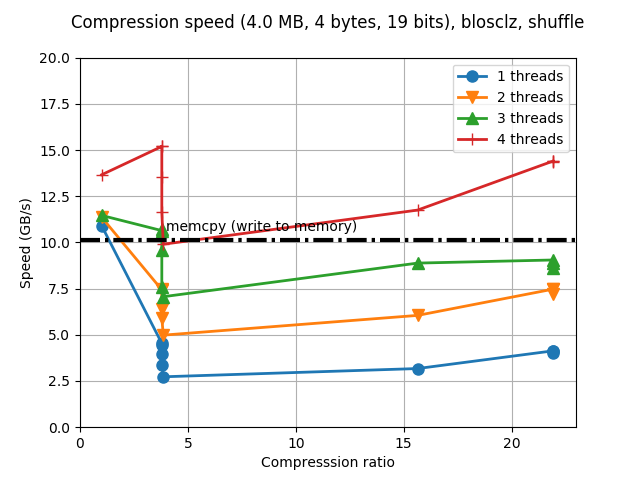
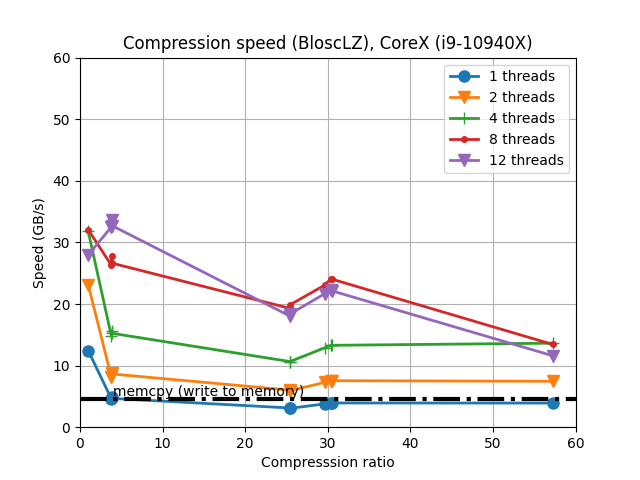
Updating the pretty old blosc in deep page

diff --git a/pages/blosc-in-depth.rst b/pages/blosc-in-depth.rst
@@ -1,6 +1,6 @@
 .. title: What Is Blosc?
 .. slug: blosc-in-depth
-.. date: 2014-06-18 16:43:07 UTC
+.. date: 2021-05-05 06:43:07 UTC
 .. tags:
 .. link:
 .. description:
@@ -11,10 +11,10 @@
 Blosc is a **high performance compressor optimized for binary
 data**. It has been designed to transmit data to the processor cache
 faster than the traditional, non-compressed, direct memory fetch
-approach via a ``memcpy()`` OS call. Blosc is the first compressor (that
-I'm aware of) that is meant not only to reduce the size of large
-datasets on-disk or in-memory, but also to accelerate memory-bound
-computations (which is typical in vector-vector operations).
+approach via a ``memcpy()`` OS call.  This can be useful not only
+to reduce the size of large datasets on-disk or in-memory, but also to
+accelerate memory-bound computations (which is typical in vector-vector
+operations).
 
 It uses the **blocking technique** (as described in this `article
 <http://www.blosc.org/docs/StarvingCPUs-CISE-2010.pdf>`_) to reduce
@@ -26,7 +26,8 @@ and *multi-threading* capabilities present in nowadays multi-core
 processors so as to accelerate the compression/decompression process
 to a maximum.
 
-To whet your appetite look at the kind of speed that Blosc can reach:
+To whet your appetite look at the kind of speed that Blosc can reach for BloscLZ,
+its default codec:
 
 .. |blosclz-c| image::   /images/blosclz-comp.png
 .. |blosclz-d| image::   /images/blosclz-decomp.png
@@ -35,7 +36,17 @@ To whet your appetite look at the kind of speed that Blosc can reach:
 | |blosclz-c|  | |blosclz-d|  |
 +--------------+--------------+
 
-You can see more benchmarks in :doc:`synthetic-benchmarks`.  Also, you may want to check out this article on `Breaking Down Memory Walls <http://www.blosc.org/docs/Breaking-Down-Memory-Walls.pdf>`_ with `Blosc2 <https://github.com/Blosc/c-blosc2>`_, the next generation of Blosc.
+And here for LZ4, a well known and very fast codec that comes integrated
+(with other codecs too) with Blosc:
+
+.. |lz4-c| image::   /images/lz4-comp.png
+.. |lz4-d| image::   /images/lz4-decomp.png
+
++--------------+--------------+
+| |lz4-c|      | |lz4-d|      |
++--------------+--------------+
+
+You can see more benchmarks in [our blog](https://www.blosc.org).  Also, you may want to check out this article on `Breaking Down Memory Walls <http://www.blosc.org/docs/Breaking-Down-Memory-Walls.pdf>`_. Also, check `Blosc2 <https://github.com/Blosc/c-blosc2>`_, the next generation of Blosc.
 
 .. raw:: html
 
@@ -61,20 +72,23 @@ pre-conditioner, so that it can work in a standalone fashion.
 Currently, Blosc uses **BloscLZ** by default, a compressor heavily
 based on `FastLZ <http://fastlz.org/>`_. From version 1.3 onwards,
 Blosc also includes support for `LZ4 and LZ4HC
-<http://www.lz4.org>`_, `Snappy
-<https://github.com/google/snappy>`_ , `Zlib
-<http://www.zlib.net>`_ and `Zstd <http://www.zstd.net>`_.  Also,
-it comes with a highly optimized (it
-can use SSE2 instructions, if available) **shuffle** pre-conditioner.
-Different compressors or pre-conditioners may be added in the future.
+<https://github.com/lz4/lz4>`_, `Zlib
+<https://github.com/zlib-ng/zlib-ng>`_ and
+`Zstd <https://github.com/facebook/zstd>`_.  Also,
+it comes with a highly optimized (it can use SSE2, AVX2 or NEON
+instructions, if available) **shuffle** and **bitshuffle** filters.
 
-Blosc is in charge of coordinating the compressor and pre-conditioners
+Of course, almost every user has her own needs, and in Blosc2 we are
+working on making possible for her to register different codecs
+and filters so that they can fine tune Blosc for different scenarios.
+
+Blosc is in charge of coordinating the compressor and filters
 so that they can leverage the blocking technique (described above) as
 well as multi-threaded execution (if several cores are available)
 automatically. That makes that every compressor and pre-conditioner
 will work at very high speeds, even if it was not initially designed
 for doing blocking or multi-threading. For example, Blosc allows you
-to use the classic ``Zlib`` library, but in a multi-threaded mode.
+to use the ``Zlib`` codec, but in a multi-threaded mode.
 
 Other advantages of Blosc are:
 
@@ -191,4 +205,3 @@ Blosc License
 Blosc is free software and released under the terms of the very
 permissive `BSD license <xhttp://en.wikipedia.org/wiki/MIT_License>`_,
 so you can use it in almost any way you want!
-
